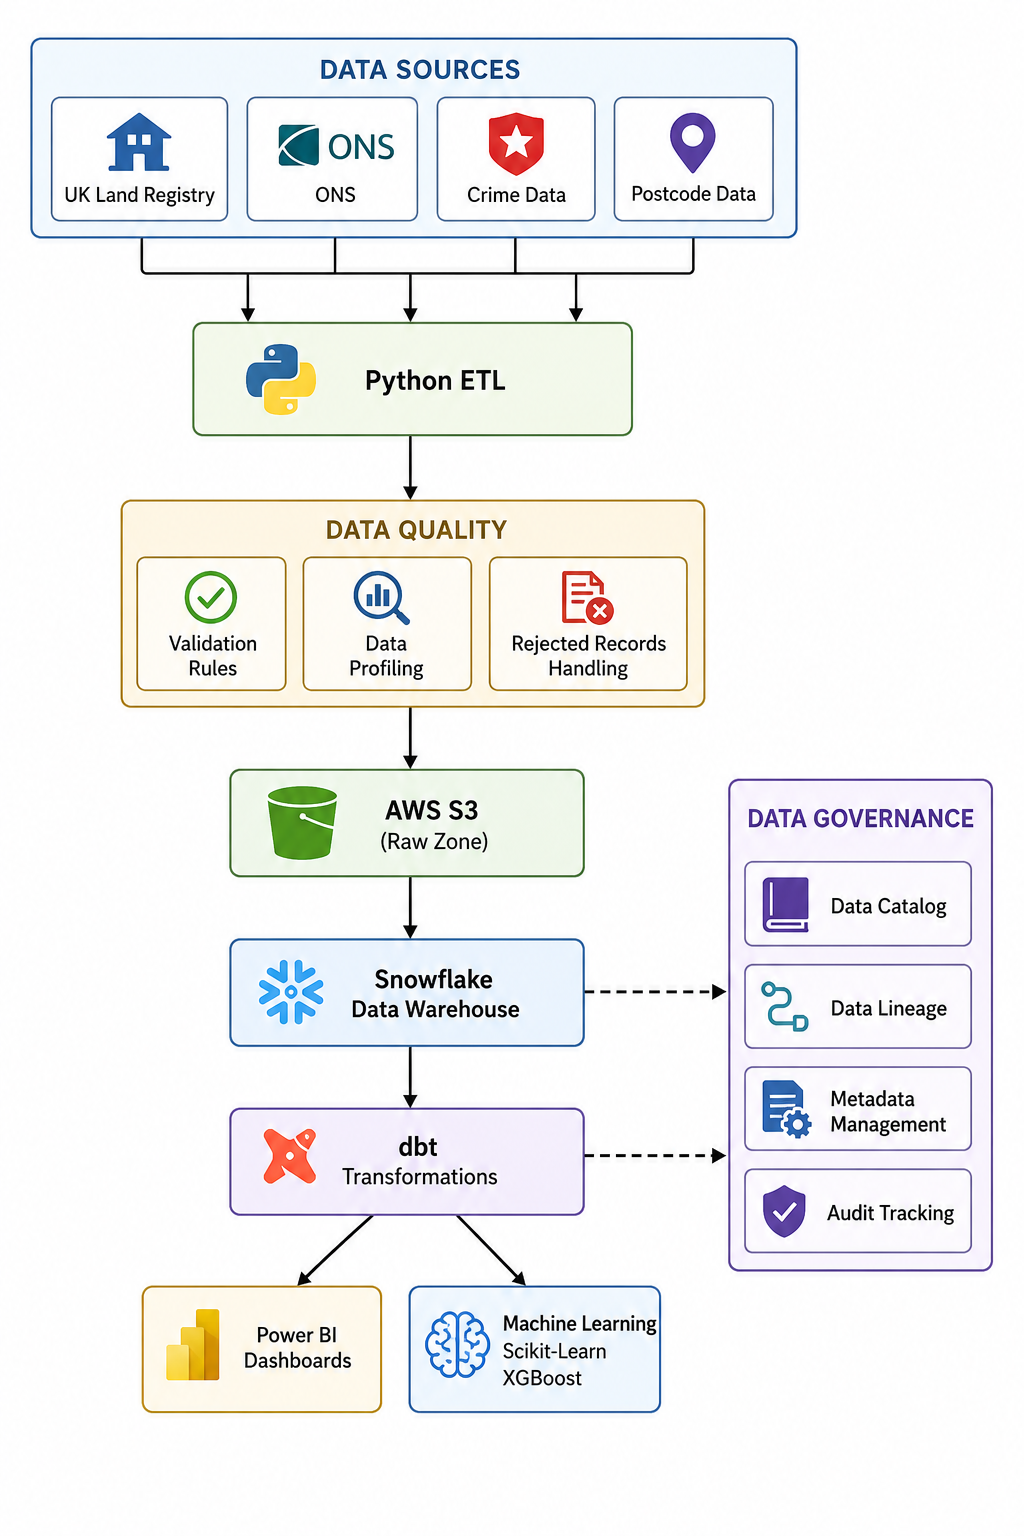
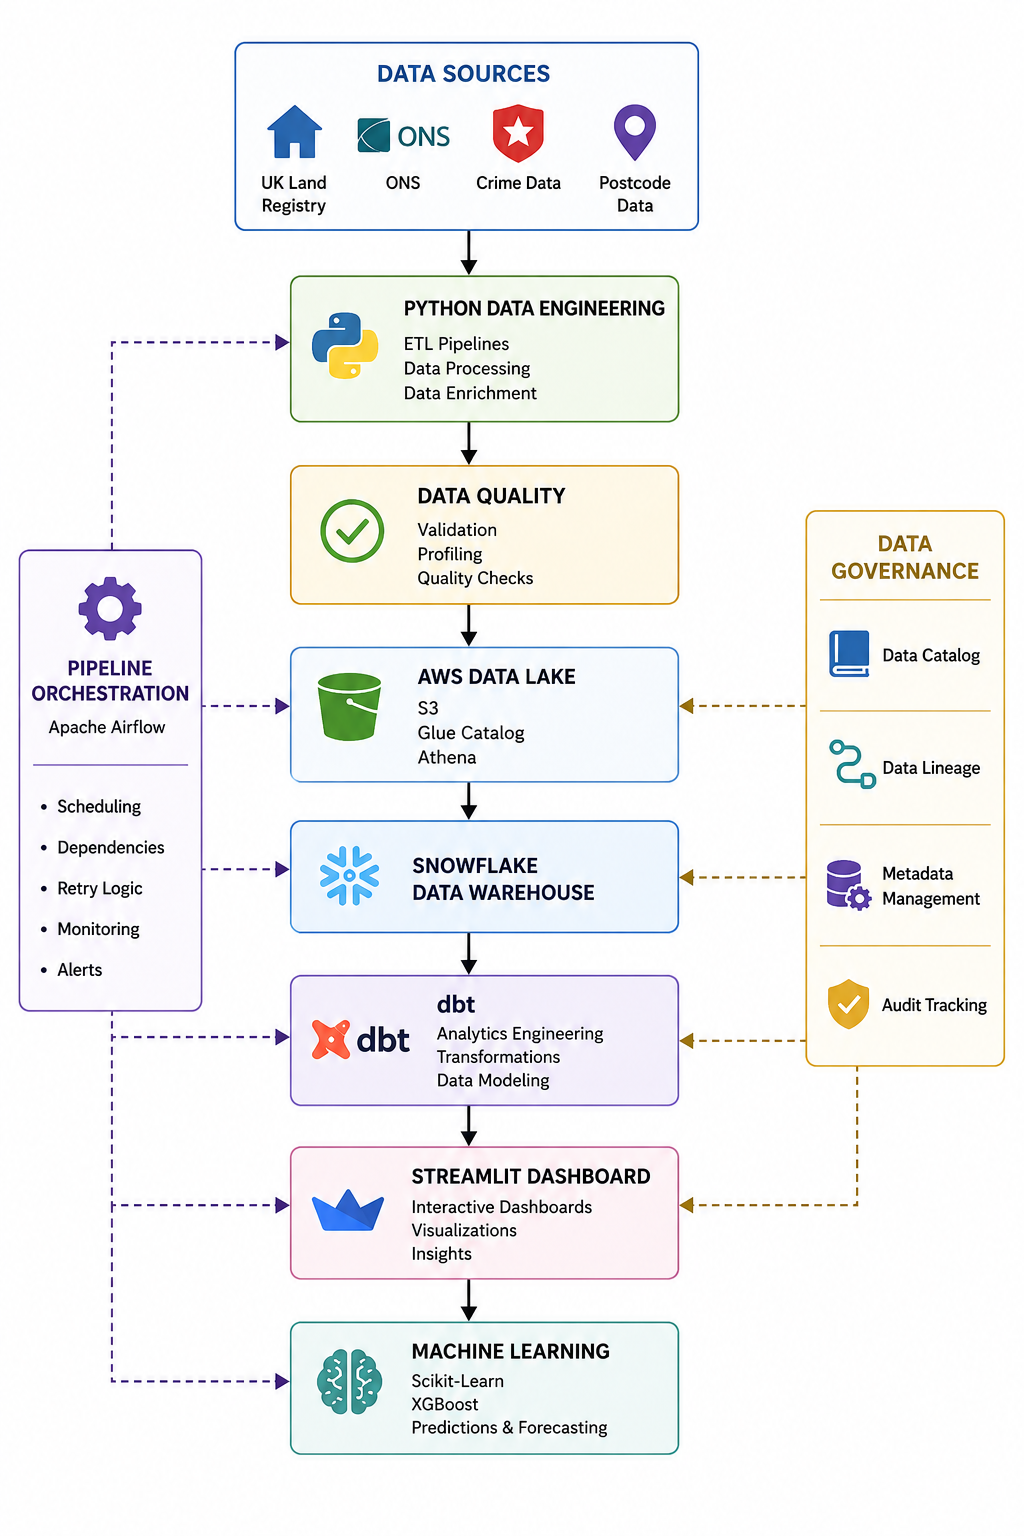
Update architecture roadmap

diff --git a/docs/architecture.md b/docs/architecture.md
@@ -3,10 +3,11 @@
 ## Layer 1 - Data Sources
 
 Current Sources:
-- UK Land Registry
-- ONS Earnings Data
-- Crime Data
+- HM Land Registry Property Transactions
+- UK Police Crime Data
 - ONS Postcode Directory
+- ONS Geographic Reference Data
+- ONS Earnings (ASHE) Data
 
 Planned Sources:
 - Registers of Scotland
@@ -16,7 +17,14 @@ Planned Sources:
 
 ## Layer 2 - Ingestion
 
-- Python ETL
+Technologies:
+- Python
+- Pandas
+
+Responsibilities:
+- Data Acquisition
+- Data Extraction
+- Data Standardisation
 - Data Profiling Pipelines
 - Data Validation Pipelines
 
@@ -24,10 +32,13 @@ Planned Sources:
 
 ## Layer 3 - Data Quality
 
+Responsibilities:
 - Validation Rules
 - Data Profiling
 - Rejected Records Handling
 - Join Quality Assessment
+- Geographic Key Verification
+- Data Quality Reporting
 
 ↓
 
@@ -37,6 +48,12 @@ Datasets:
 - property_prices_clean.csv
 - crime_clean.csv
 - postcodes_clean.csv
+
+Responsibilities:
+- Dataset Cleaning
+- Standardisation
+- Transformation
+- Validation
 
 ↓
 
@@ -49,47 +66,140 @@ Datasets:
 - housing_master_dataset.parquet
 
 Responsibilities:
-- Geographic enrichment
-- Crime aggregation
-- Feature engineering
-- Analytical dataset creation
+- Geographic Enrichment
+- Crime Aggregation
+- Income Enrichment
+- Feature Engineering
+- Analytical Dataset Creation
 
 ↓
 
-## Layer 6 - Storage
+## Layer 6 - Cloud Data Lake
 
-- AWS S3 (Raw / Processed / Curated Zones)
+Technology:
+- AWS S3
+
+Architecture:
+- Bronze Layer
+- Silver Layer
+- Gold Layer
+
+Supporting Services:
+- AWS Glue Data Catalog
+- Amazon Athena
+- Terraform
+- GitHub Actions
+
+Responsibilities:
+- Cloud Storage
+- Data Lake Management
+- Metadata Cataloging
+- Query Layer
+- Infrastructure as Code
 
 ↓
 
 ## Layer 7 - Data Warehouse
 
+Technology:
 - Snowflake
+
+Responsibilities:
+- Data Warehousing
+- Structured Analytics Storage
+- Warehouse Compute
+- Secure Data Access
+- Analytical Query Processing
 
 ↓
 
-## Layer 8 - Transformation
+## Layer 8 - Analytics Engineering
 
+Technology:
 - dbt
+
+Responsibilities:
+- Data Transformations
+- Business Logic
+- Fact Tables
+- Dimension Tables
+- Star Schema Modelling
+- Data Testing
+- Documentation Generation
+- Data Lineage
 
 ↓
 
 ## Layer 9 - Governance
 
+Responsibilities:
 - Data Catalog
 - Data Lineage
 - Metadata Management
 - Audit Tracking
+- Data Quality Controls
+- Governance Documentation
 
 ↓
 
-## Layer 10 - Analytics
+## Layer 10 - Analytics Applications
 
-- Power BI
+Technologies:
+- Streamlit
+- Plotly
+
+Responsibilities:
+- Dashboarding
+- KPI Reporting
+- Area Rankings
+- Investment Analysis
+- Regional Intelligence
+- Interactive Visualisations
 
 ↓
 
 ## Layer 11 - Machine Learning
 
+Technologies:
 - Scikit-Learn
 - XGBoost
+
+Responsibilities:
+- Price Prediction
+- Growth Forecasting
+- Recommendation Models
+- Housing Intelligence Forecasting
+
+---
+
+## Orchestration Layer
+
+Technology:
+- Apache Airflow
+
+Responsibilities:
+- Pipeline Scheduling
+- Workflow Automation
+- Dependency Management
+- Retry Logic
+- Failure Handling
+- Notifications
+- End-to-End Pipeline Orchestration
+
+Airflow Orchestrates:
+
+Data Acquisition
+↓
+Data Processing
+↓
+Data Enrichment
+↓
+AWS S3 Data Lake Loads
+↓
+Snowflake Loads
+↓
+dbt Transformations
+↓
+Analytics Dataset Refresh
+↓
+Dashboard Refresh

diff --git a/docs/roadmap.md b/docs/roadmap.md
@@ -123,9 +123,9 @@ Deliverables:
 - Income Affordability Metrics
 - Price-to-Income Ratios
 - Regional Income Lookup
-- Historical Snapshot Enhancement (Next)
-- Market Trend Analytics (Planned)
-- Time-Series Analytics (Planned)
+- Historical Snapshot Enhancement
+- Market Trend Analytics
+- Time-Series Analytics
 
 ## Phase 7
 
@@ -137,31 +137,66 @@ Deliverables:
 - AWS Account Setup
 - IAM Configuration
 - S3 Data Lake Design
-- Raw Zone
-- Processed Zone
-- Curated Zone
+- Bronze Layer
+- Silver Layer
+- Gold Layer
+- AWS Glue Data Catalog
+- Amazon Athena
+- Terraform Infrastructure as Code
+- GitHub Actions CI/CD
 - Secure Data Storage
 - Cloud Data Lifecycle Management
+- Cloud Data Lake Architecture Documentation
 
 ## Phase 8
 
-Data Warehouse & Transformation (Snowflake / dbt)
+Data Warehouse & Analytics Engineering (Snowflake / dbt)
 
-Status: In Progress
+Status: Pending
 
 Deliverables:
 - Snowflake Setup
 - Database Design
 - Schema Design
+- Warehouse Design
+- Roles & Access Management
 - Data Loading Pipelines
+- External Stages
+- Fact Table Design
+- Dimension Table Design
+- Star Schema Modelling
 - dbt Project Setup
+- Source Definitions
 - Staging Models
+- Intermediate Models
 - Mart Models
 - Data Quality Tests
-- Documentation Generation
+- dbt Documentation
+- Data Lineage Generation
 - Metadata Management
+- Analytics Engineering Framework
 
 ## Phase 9
+
+Pipeline Orchestration & Automation
+
+Status: Pending
+
+Deliverables:
+- Apache Airflow Setup
+- DAG Design
+- Pipeline Scheduling
+- Dependency Management
+- Retry Logic
+- Failure Handling
+- Alerting & Notifications
+- Automated Data Refresh
+- Automated Snowflake Loads
+- Automated dbt Runs
+- End-to-End Pipeline Orchestration
+- Orchestration Documentation
+
+## Phase 10
 
 Machine Learning Layer
 
@@ -175,21 +210,24 @@ Deliverables:
 - Model Evaluation Framework
 - Model Monitoring Framework
 - Forecasting Capabilities
+- Housing Market Forecasting
+- Investment Opportunity Prediction
 
-## Phase 10
+## Phase 11
 
-Production & Orchestration
+Production Platform & DevOps
 
 Status: Pending
 
 Deliverables:
 - Docker Containerisation
-- GitHub Actions CI/CD
-- Workflow Automation
-- Airflow or Kestra Orchestration
-- Production Deployment Architecture
+- CI/CD Enhancements
 - Automated Testing
 - Monitoring & Alerting
+- Logging Framework
+- Production Deployment Architecture
+- Environment Management
+- Infrastructure Documentation
 - Production Documentation
 
 ## Future Enhancement

diff --git a/docs/project_scope.md b/docs/project_scope.md
@@ -45,7 +45,9 @@ The goal is to create a centralized analytics platform that transforms raw housi
 3. Store data in cloud infrastructure.
 4. Create analytical datasets.
 5. Build dashboards.
-6. Build machine learning models.
+6. Implement analytics engineering workflows.
+7. Implement pipeline orchestration.
+8. Build machine learning models.
 
 ---
 

diff --git a/README.md b/README.md
@@ -60,8 +60,12 @@ For all dashboard screenshots, see:
 * Python
 * Pandas
 * AWS S3
+* AWS Glue Data Catalog
+* Amazon Athena
 * Snowflake
 * dbt
+* Apache Airflow
+* Terraform
 * GitHub
 
 ### Analytics
@@ -152,4 +156,4 @@ reports/eda/
 
 ## Current Status
 
-Phase 6 Completed
+Phase 7 Completed
